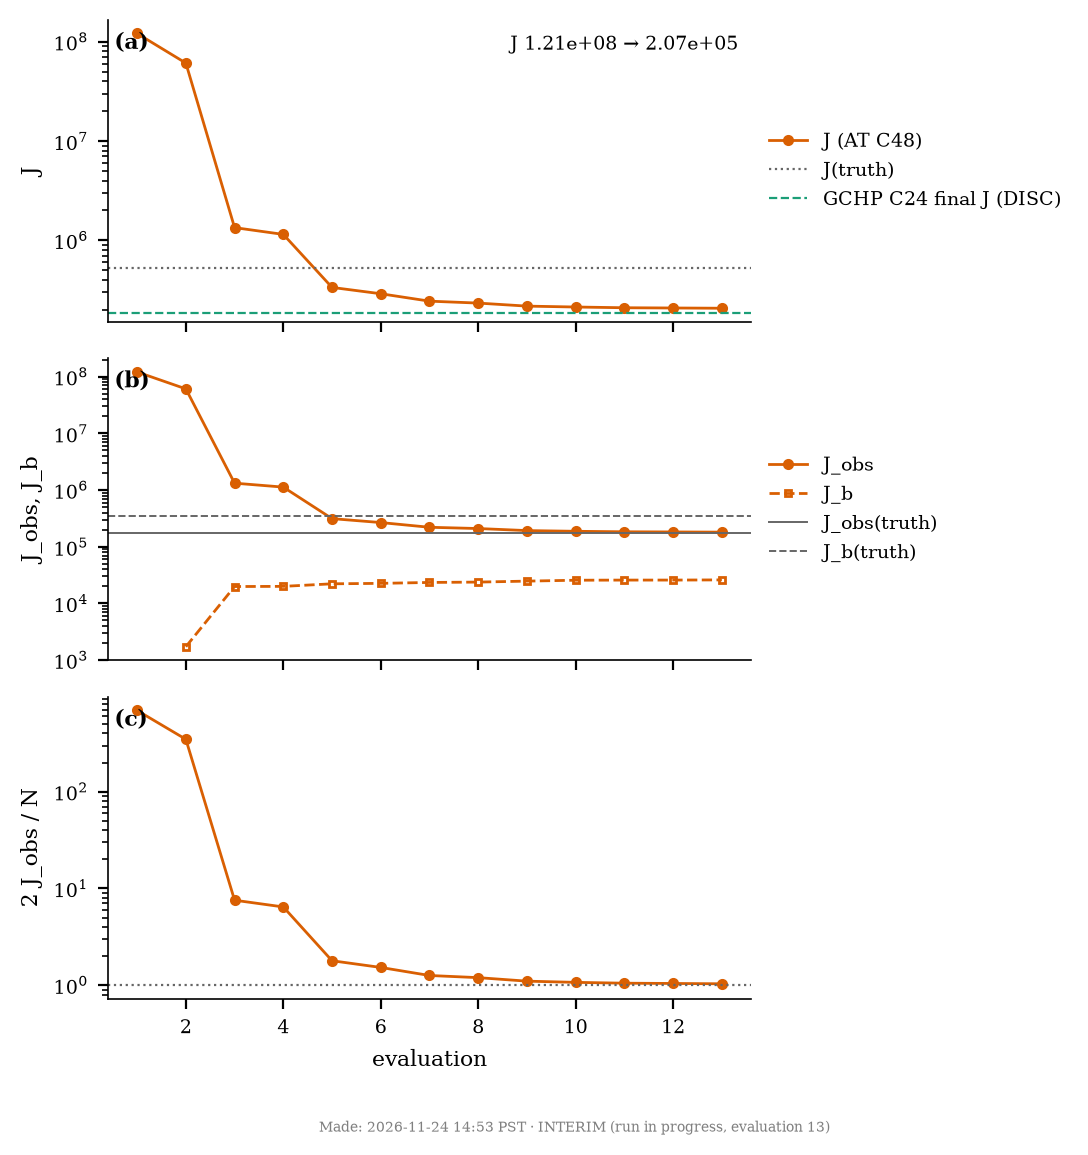
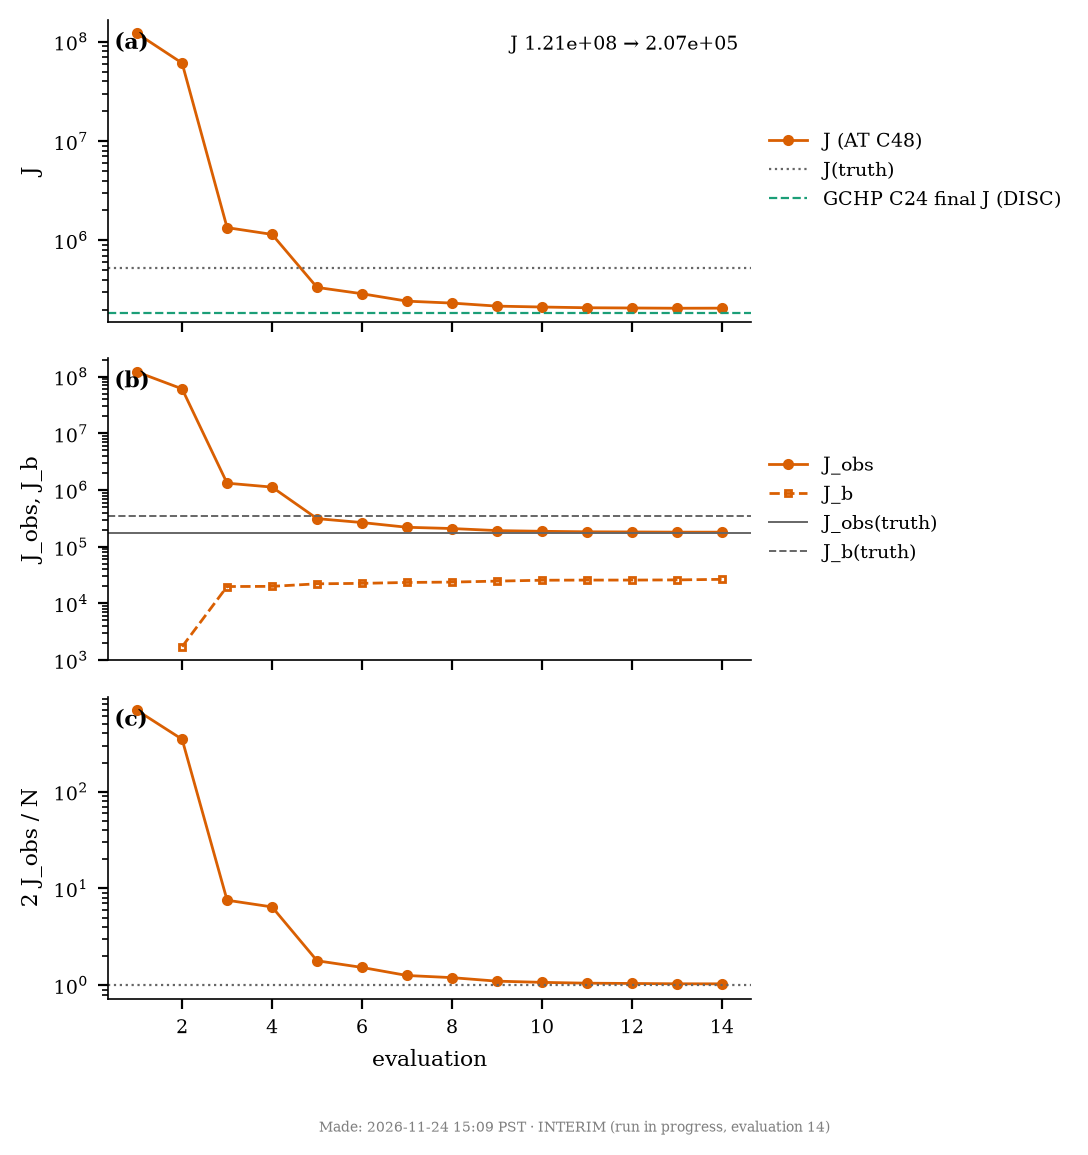
AtmosTransport adjoint page: OSSE 1 observations and truth figure

diff --git a/AtmosTransport/adjoint/a1_pbl_c90_20220701/index.html b/AtmosTransport/adjoint/a1_pbl_c90_20220701/index.html
@@ -742,6 +742,12 @@ details[open] summary { margin-bottom: 0.6rem; }
     <p><strong>What would mean it works.</strong> 2 J<sub>obs</sub>/N → 1; the 2016 TER error and cell RMSE reduced as in GCHP (DISC: +43.73 → +1.18 PgC, −62 %); the ocean nearly unchanged, as GCHP's diagonal-B runs.</p>
   </div>
 
+  <h3>Observations and the truth</h3>
+  <figure>
+    <img src="img/fig_osse1_obs.png?v=b81d349d90" alt="OCO-2 soundings per day by mode, map of the soundings, and the truth XCO2 at the soundings by latitude band" loading="lazy">
+    <figcaption><strong>The observations of the OSSE.</strong> (a) Soundings per day by OCO-2 mode (350 035 in all: land nadir 58 544, land glint 54 185, ocean glint 237 306; median 640 per day; 36 days without data: 1–6 Oct 2015 (before the package's first sounding), 27 Oct – 1 Nov 2015, 29 Mar – 3 Apr 2016, 11–20 Aug 2016, 31 Dec 2016, 2 Jan 2017 (its 77 soundings dropped, see above) and 22–27 Feb 2017). (b) Number of soundings per 2° × 2° cell over the window: the ocean-glint tracks dominate; no data poleward of about 70° and over winter high latitudes. (c) The truth at the soundings: daily mean XCO₂ of the truth run (AT, before noise) south of 20° S, between 20° S and 20° N, and north of 20° N (days with at least 20 soundings). The northern drawdown of summer 2016 and the growth of about 2.5 ppm per year are visible; the observations are these values plus noise with a standard deviation of 0.80 ppm.</figcaption>
+  </figure>
+
   <h3>Interim result (evaluation 13)</h3>
   <ul class="prose" style="margin:0;padding-left:1.2rem;display:flex;flex-direction:column;gap:0.3rem">
     <li><strong>J fell from 1.210 × 10⁸ to 2.07 × 10⁵</strong> (a factor of 585) in 13 evaluations, all accepted. The starting J equals GCHP's (1.21 × 10⁸). J<sub>obs</sub> = 1.81 × 10⁵, 4 % above its value at the truth (the noise, 1.745 × 10⁵); 2 J<sub>obs</sub>/N = 1.03.</li>
@@ -751,19 +757,19 @@ details[open] summary { margin-bottom: 0.6rem; }
   </ul>
 
   <figure>
-    <img src="img/fig_osse1_cost.png?v=1f436b3beb" alt="Cost function, its observation and background parts, and 2 J_obs over N per evaluation of the long OSSE 1" loading="lazy">
+    <img src="img/fig_osse1_cost.png?v=f6bc205fe5" alt="Cost function, its observation and background parts, and 2 J_obs over N per evaluation of the long OSSE 1" loading="lazy">
     <figcaption><strong>Cost function per evaluation.</strong> (a) J, with J(truth) and GCHP's final J (C24, discrete adjoint) for orientation; (b) J<sub>obs</sub> and J<sub>b</sub>, with their values at the truth; (c) 2 J<sub>obs</sub>/N (1 = the noise level). J(truth) lies above J because J<sub>b</sub>(truth) grows with the number of controls: at C48 there are 4 times as many cells as at C24, so GCHP's J values are not directly comparable.</figcaption>
   </figure>
   <figure>
-    <img src="img/fig_osse1_flux_error.png?v=2851bcd075" alt="2016 TER and ocean flux errors and cell RMSE change per evaluation" loading="lazy">
+    <img src="img/fig_osse1_flux_error.png?v=a59f97e7b4" alt="2016 TER and ocean flux errors and cell RMSE change per evaluation" loading="lazy">
     <figcaption><strong>2016 flux errors per accepted evaluation.</strong> (a, b) global 2016 total minus truth for TER and ocean; (c, d) cell-month RMSE relative to the prior. Dashed: GCHP C24 final values (discrete adjoint).</figcaption>
   </figure>
   <figure>
-    <img src="img/fig_osse1_monthly.png?v=dd0f5668f2" alt="Monthly global TER and ocean totals over the 19-month window for truth, prior and posterior" loading="lazy">
+    <img src="img/fig_osse1_monthly.png?v=200939ddf1" alt="Monthly global TER and ocean totals over the 19-month window for truth, prior and posterior" loading="lazy">
     <figcaption><strong>Monthly global totals</strong> of truth, prior and the posterior of evaluation 13 over the whole window; grey: 2016. The last month (April 2017) is weakly constrained.</figcaption>
   </figure>
   <figure>
-    <img src="img/fig_osse1_maps.png?v=e46b6b4928" alt="Maps of the 2016 TER and ocean flux errors of the prior and of the posterior" loading="lazy">
+    <img src="img/fig_osse1_maps.png?v=75d45a45b4" alt="Maps of the 2016 TER and ocean flux errors of the prior and of the posterior" loading="lazy">
     <figcaption><strong>2016 flux error maps</strong>, prior − truth and posterior − truth, for TER (a, b) and ocean (c, d), gC m⁻² yr⁻¹.</figcaption>
   </figure>
   <p class="meta">Scripts: <code>osses/driver/fourdvar_3month.jl</code> (run; options --mmap_dir, --stop_rel, --host_tape_gib), <code>osses/driver/fig_osse1_long.py</code> (figures, numbers: <code>results_osse1.txt</code>). Data: <code>/temp2/ksuselj/adjoint_exps/osses/osse1_long/</code>.</p>
